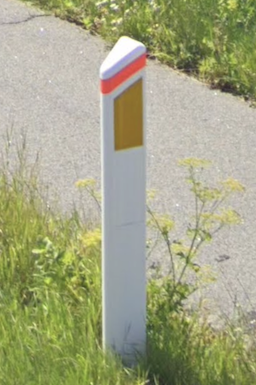
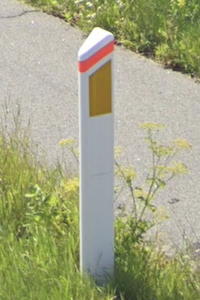
Update bollard

diff --git a/content/docs/bollard/_index.md b/content/docs/bollard/_index.md
@@ -11,19 +11,19 @@ bookCollapseSection: true
 
 #### France, Senegal
 
-{{<figure src="bollard-fr.png" caption="red or grey" class="img-sm" loading="lazy" >}}
+{{<figure src="bollard-fr.png" caption="red or grey" class="img-md" loading="lazy" >}}
 
 <--->
 
 #### Scotland (UK)
 
-{{<figure src="bollard-scotland.png" caption="rounded top" class="img-sm" loading="lazy" >}}
+{{<figure src="bollard-scotland.png" caption="rounded top" class="img-md" loading="lazy" >}}
 
 <--->
 
 #### France
 
-{{<figure src="bollard-flag-fr.png" caption="" class="img-sm" loading="lazy" >}}
+{{<figure src="bollard-flag-fr.png" caption="" class="img-md" loading="lazy" >}}
 
 <--->
 
@@ -46,21 +46,26 @@ bookCollapseSection: true
 {{% /columns %}}
 
 
-## Wedge, yellow and white
+## White wedge with reflector
 
 {{% columns %}}
 
 #### Belgium
 
-<img src="bollard-be.png" class="img-sm" loading="lazy" />
+{{<figure src="bollard-be.png" caption="yellow reflector" class="img-md" loading="lazy">}}
 
 <--->
 
 #### Denmark
 
-<img src="bollard-dk.png" class="img-sm" loading="lazy" />
+{{<figure src="bollard-dk.png" caption="yellow with stripe" class="img-md" loading="lazy">}}
 
 <--->
+
+#### Cyprus
+{{<figure src="bollard-cy.png" caption="red reflector" class="img-md" loading="lazy"
+    link="https://www.google.com/maps/@34.672649,32.634608,3a,22.4y,74.88h,82.87t/data=!3m5!1e1!3m3!1scjtWen7BuyFkPHg3vxDcnQ!2e0!6shttps%3A%2F%2Fstreetviewpixels-pa.googleapis.com%2Fv1%2Fthumbnail%3Fw%3D900%26h%3D600%26panoid%3DcjtWen7BuyFkPHg3vxDcnQ%26cb_client%3Dmaps_sv.share%26yaw%3D74.88021360940833%26pitch%3D7.131429104159139%26thumbfov%3D22?coh=235716&entry=tts" target="_blank">}}
+
 <--->
 
 {{% /columns %}}
@@ -159,13 +164,13 @@ Switzerland, Liechtenstein
 
 #### Mongolia
 
-{{<figure src="bollard-mn.png" caption="bowling shape" class="img-sm" loading="lazy" >}}
+{{<figure src="bollard-mn.png" caption="bowling shape" class="img-md" loading="lazy" >}}
 
 <--->
 
 #### Iceland
 
-{{<figure src="bollard-is.png" caption="" class="img-sm" loading="lazy" >}}
+{{<figure src="bollard-is.png" caption="" class="img-md" loading="lazy" >}}
 
 <--->
 <--->

diff --git a/content/docs/bollard/slavic-style/_index.md b/content/docs/bollard/slavic-style/_index.md
@@ -10,7 +10,7 @@ Wedge, front red and back white, strip on both side
 
 Russia, Ukraine, Hungary, Bulgaria, Croatia, Montenegro, North Macedonia
 
-**Shorter white top**: Croatia, Montenegro, North Macedonia
+**Shorter white top**: Croatia, Montenegro, North Macedonia, Bosnia and Herzegovina
 
 {{% columns %}}
 
@@ -67,7 +67,7 @@ Russia, Ukraine, Hungary, Bulgaria, Croatia, Montenegro, North Macedonia
 {{% /columns %}}
 
 
-## Black top: Italy, Albania
+## Black top: Italy, Albania, BiH
 
 <img src="bollard-it.png" class="img-sm" loading="lazy" />
 

diff --git a/content/docs/bollard/black-hat/_index.md b/content/docs/bollard/black-hat/_index.md
@@ -8,7 +8,7 @@ Wedge, front red and back white, strip on both side, with black hat
 
 ## Standard
 
-Austria, Slovenia, Croatia, Montenegro
+Austria, Slovenia, Croatia, Montenegro, Bosnia and Herzegovina
 
 <img src="bollard-si.png" class="img-sm" loading="lazy" />
 